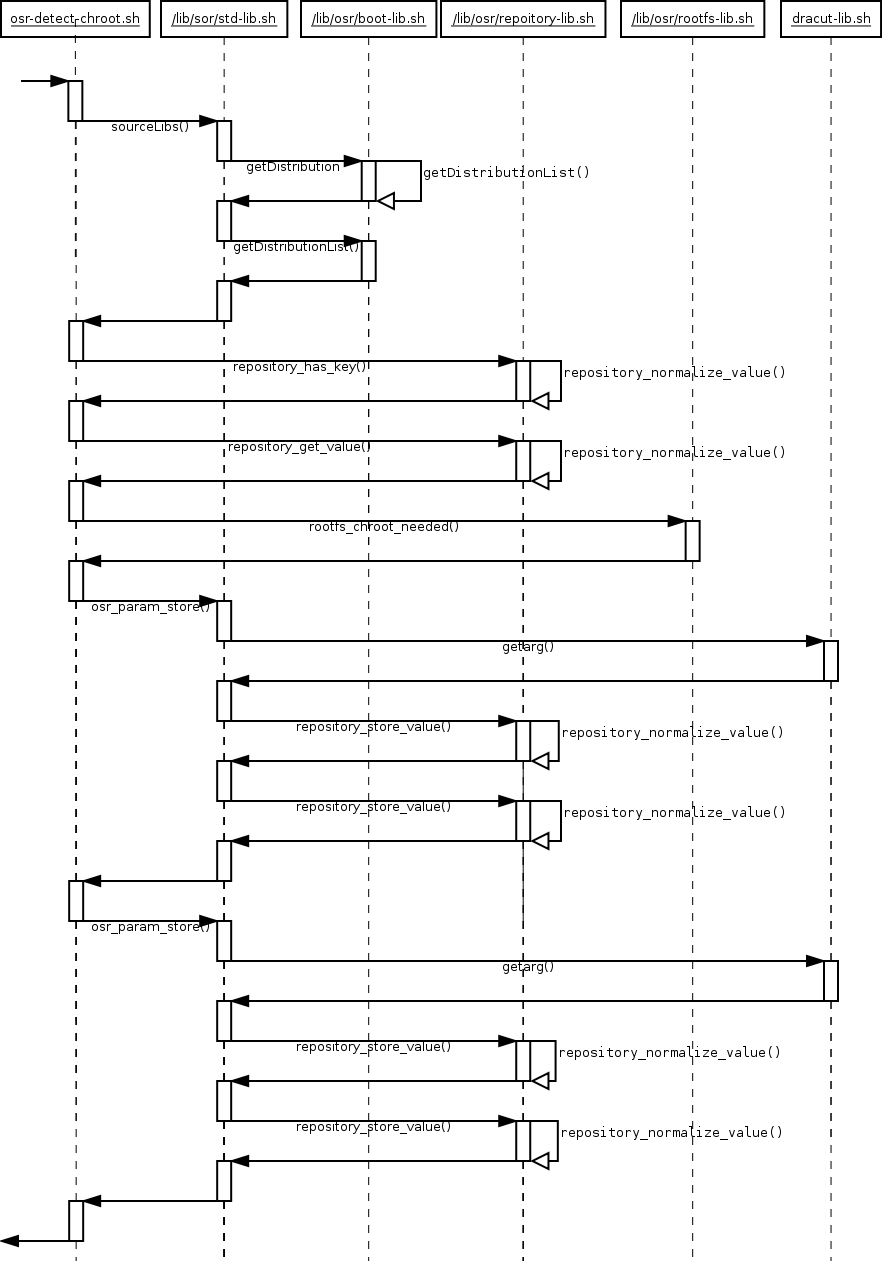
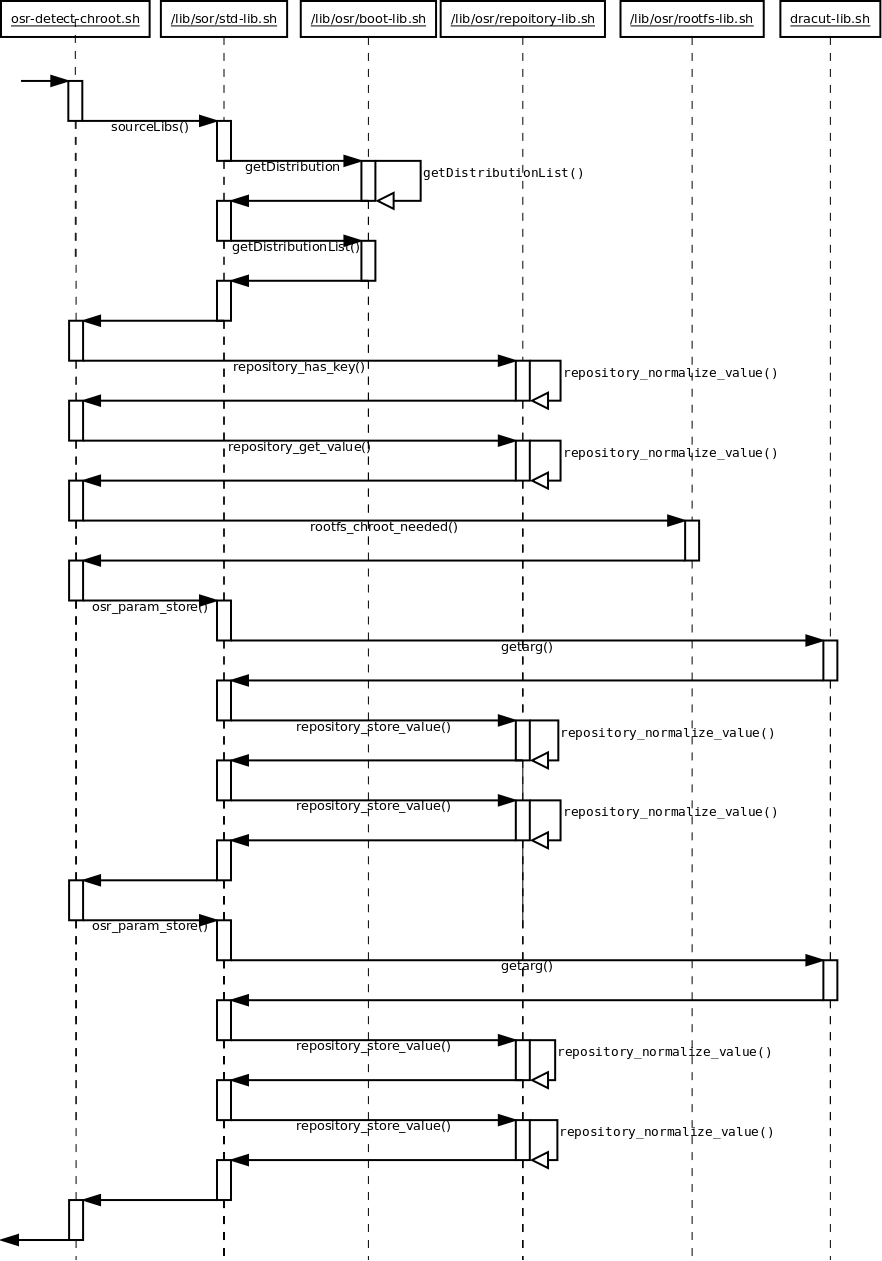
continue with docs.

diff --git a/doc/DE_de/develop_doc.tex b/doc/DE_de/develop_doc.tex
@@ -6,6 +6,7 @@
 \usepackage{amssymb}
 \usepackage{hyperref}
 \usepackage{graphicx}
+\usepackage{float}
 
 \author{Olaf Radicke}
 \title{Dokumentation der Funktionsweise der OSR-Dracut-Module}
@@ -31,8 +32,16 @@ Die in den Modulen verwendeten Hooks sind:
 \begin{description}
  \item[cmdline] Ein sehr früher Zeitpunkt. Hier werden die Kerne-Parameter ausgewertet werden die dem Bootloader mitgegeben wurden (Sei es als GRUB-Konfiguration oder beim Booten). Hier werden z.B. die wichtigsten Environment-Variablen gesetzt. 
  \item[pre-pivot] Das ist der letzte Hook der ausgeführt wird, bevor  das richtige root-Verzeichnis ein gehangen wird. Also ein guter Zeitpunkt für etweilige Aufräumarbeiten.
- \item[emergency] Ein solcher Hook ist in der Dracut-Doku nicht dokumentiert.
- \end{description}
+\end{description}
+ 
+\subsection{Verwendete undokumentierte Hooks}
+
+Die volgenen Hooks ist in der Dracut-Doku nicht dokumentiert. Werden aber verwendet.
+
+\begin{description}
+ \item[emergency] 
+ \item[netroot]
+\end{description}
 
 In einem Script \texttt{check} wird eine Funktion \texttt{check()} definiert. Das Scrip \texttt{check} sollte 0 (null) zurückgeben, wenn alle Bedingungen erfüllt sind. Wird ein anderer Wert zurückgegeben, wird das Modul nicht von Darcut geladen.
 
@@ -50,8 +59,16 @@ Die Dracut-lib (\texttt{/usr/share/dracut/modules.d/99base/dracut-lib.sh}) stell
 \begin{description}
  \item [getarg()] Gibt die benutzten Kernel-Parameter zurück.
  \item [die()] Schreibt eine Meldung in \texttt{/dev/kmsg}, gibt eine Meldung auf der Standartausgabe aus und beendet das Script mit Rückgabelwert 1.
+ \item [info()] Schreibt Meldungen in  \texttt{/dev/kmsg}, mit die Informationen später, nach dem Booten vom Benutzer abgerufen werden können.
+
 \end{description}
 
+%%%%%%%%%%%%%%%%%%%%%%%%%%%%%%%%%%%%%%%%%%%%%%%%%%%%%%%%%%%%%%%%%%%%%%%%%%%%%%%%
+% Die einzelen Module....
+%%%%%%%%%%%%%%%%%%%%%%%%%%%%%%%%%%%%%%%%%%%%%%%%%%%%%%%%%%%%%%%%%%%%%%%%%%%%%%%%
+
+
+%%%%%%%%%%%%%%%%%%%%%%%%%%%%%%%%% NEW SECTION %%%%%%%%%%%%%%%%%%%%%%%%%%%%%%%%%%
 \section{Modul 95osr-chroot}
 
 \subsection{Definierte Hooks}
@@ -59,16 +76,24 @@ Die Dracut-lib (\texttt{/usr/share/dracut/modules.d/99base/dracut-lib.sh}) stell
 \begin{tabular}{|l|l|l|}
  \hline
 \textbf{Hook} & \textbf{Priorität} & \textbf{Script} \\ \hline
-pre-udev & 59 & osr-net-genrules.sh \\ \hline
 netroot  & 11 & osr-detect-chroot.sh \\ \hline
 netroot  & 50 & osr-mount-chroot.sh \\ \hline
+pre-udev & 51 & osr-move-chroot.sh \\ \hline
 \end{tabular}
-
-\subsubsection{osr-net-genrules.sh}
 
 \subsubsection{osr-detect-chroot.sh}
 
+Siehe \ref{osrdetectchroot} Seite \pageref{osrdetectchroot}.
+
 \subsubsection{osr-mount-chroot.sh}
+
+Siehe: \ref{osrmountchroot} Seite \pageref{osrmountchroot}.
+
+\subsubsection{osr-move-chroot.sh}
+
+
+
+%%%%%%%%%%%%%%%%%%%%%%%%%%%%%%%%% NEW SECTION %%%%%%%%%%%%%%%%%%%%%%%%%%%%%%%%%%
 
 \section{Modul 95osr-cluster}
 
@@ -81,27 +106,77 @@ netroot  & 50 & osr-mount-chroot.sh \\ \hline
  \item basename
 \end{itemize}
 
-
 \subsection{Definierte Hooks}
 
 \begin{tabular}{|l|l|l|}
  \hline
 \textbf{Hook} & \textbf{Priorität} & \textbf{Script} \\ \hline
+pre-udev   & 59 & osr-net-genrules.sh \\ \hline
 netroot    & 11 & osr-detect-chroot.sh \\ \hline
 netroot    & 50 & osr-mount-chroot.sh \\ \hline
-pre-pivot  & 51 & osr-move-chroot.sh \\ \hline
 \end{tabular} 
 
+
+\subsubsection{osr-net-genrules.sh}
+
+\begin{description}
+\item[Hook:] pre-udev
+\item[Priorität:] 59
+\end{description}
+
+
+% TODO
+
 \subsubsection{osr-detect-chroot.sh}
+\label{osrdetectchroot} 
+
+\begin{description}
+\item[Hook:] netroot
+\item[Priorität:] 11
+\end{description}
+
+Das Script überprüft, ob für den Node eine ID gesetzt ist. Wenn nicht bricht es mit einer Fehlermeldung ab. Ist die ID gesetzt wird \verb|/etc/conf.d/osr-nodeidvalues-${nodeid}.conf| eingebunden. Dann wird geprüft ob eine chroot-Umgebung gebraucht wird. Das Ergebnis der Prüfung wird gespeicherte mit \texttt{osr\_param\_store()}
+
+\begin{figure}[H]
+ \centering
+ \includegraphics[scale=0.35]{./sequence_diagram_osr-detect-chroot_DE_de.png}
+ \caption[]{Sequence-Diagram des osr-detect-chroot.sh-Scrips}
+\end{figure}
 
 \subsubsection{osr-mount-chroot.sh}
+\label{osrmountchroot} 
 
-\subsubsection{osr-move-chroot.sh}
+\begin{description}
+\item[Hook:] netroot
+\item[Priorität:] 50
+\end{description}
 
+Das Script hängt das richtige (shared) root-Verzeichnis ein. Schlägt das fehl, wird versucht das noch ein mal mit default Werten zu versuchen. Dann Werden die nötigen Ordnerstrukturen kopiert und die besonderen Verzeichnisse eingehangen.
+
+\begin{verbatim}
+  cp -axf $chroot_source $chroot_path
+  rm -rf $chroot_path/var/run/*
+  mkdir -p $chroot_path/tmp
+  chmod 755 $chroot_path
+  mount -t tmpfs none $chroot_path/dev
+  cp -a /dev $chroot_path/
+  mount -t devpts none $chroot_path/dev/pts
+  mount -t proc proc $chroot_path/proc
+  mount -t sysfs sysfs $chroot_path/sys
+\end{verbatim}
+
+\begin{figure}[H]
+ \centering
+ \includegraphics[scale=0.35]{./sequence_diagram_osr-mount-chroot_DE_de.png}
+ \caption[]{Sequence-Diagram des osr-mount-chroot.sh-Scrips}
+\end{figure}
+
+
+%%%%%%%%%%%%%%%%%%%%%%%%%%%%%%%%% NEW SECTION %%%%%%%%%%%%%%%%%%%%%%%%%%%%%%%%%%
 
 \section{Modul 96osr}
 
-Das Modul ist dafür zuständig, das File System für ein \texttt{chared root} ein zu hängen.
+Das Modul ist dafür zuständig, das File System für ein \texttt{shared root} ein zu hängen.
 
 \subsection{In Initramfs installierte Dateien}
 
@@ -148,7 +223,7 @@ emergencyenv.sh & 1 & emergency \\ \hline
 \item[Priorität:] 99
 \end{description}
 
-\begin{figure}[h!]
+\begin{figure}[H]
  \centering
  \includegraphics[scale=0.35]{./sequence_diagram_setup-osrenv_DE_de.png}
  \caption[]{Sequence-Diagram des setup-osrenv.sh-Scrips}
@@ -178,7 +253,7 @@ xkillallprocsfile & \verb|/etc/xkillallprocs|  \\ \hline
 \item[Priorität:] 2
 \end{description}
 
-\begin{figure}[h!]
+\begin{figure}[H]
  \centering
  \includegraphics[scale=0.45]{./sequence_diagram_parse-nodeid_DE_de.png}
  \caption[]{Sequence-Diagram des parse-nodeid.sh-Scrips}
@@ -214,7 +289,7 @@ cdsllink & /cdsl.local \\ \hline
 
 Das Script macht den --bind-mount für das Chared-Root-File-System. Das wird mit cdsllinks realisiert.
 
-\begin{figure}[h!]
+\begin{figure}[H]
  \centering
  \includegraphics[scale=0.35]{./sequence_diagram_mount-cdsl_DE_de.png}
  \caption[]{Sequence-Diagram des mount-cdsl.sh-Script}
@@ -229,7 +304,7 @@ Das Script macht den --bind-mount für das Chared-Root-File-System. Das wird mit
 
 Je nach verwendeten File-System des des Chared-Root-Tree wird eine bestimmte Lib eingehangen. Dann die /etc/xtab erstellt bzw.  generiert. Dann wird das \texttt{xrootfs} erstellt und der \texttt{xkillall\_procs}.
 
-\begin{figure}[h!]
+\begin{figure}[H]
  \centering
  \includegraphics[scale=0.35]{./sequence_diagram_write-xfiles_DE_de.png}
  \caption[]{Sequence-Diagram des write-xfiles.sh-Script}
